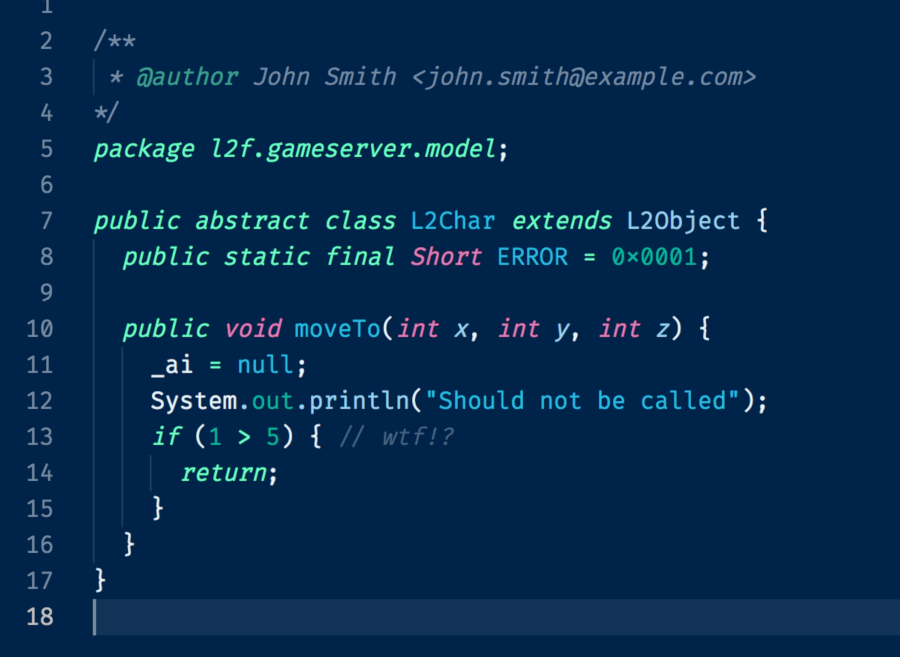
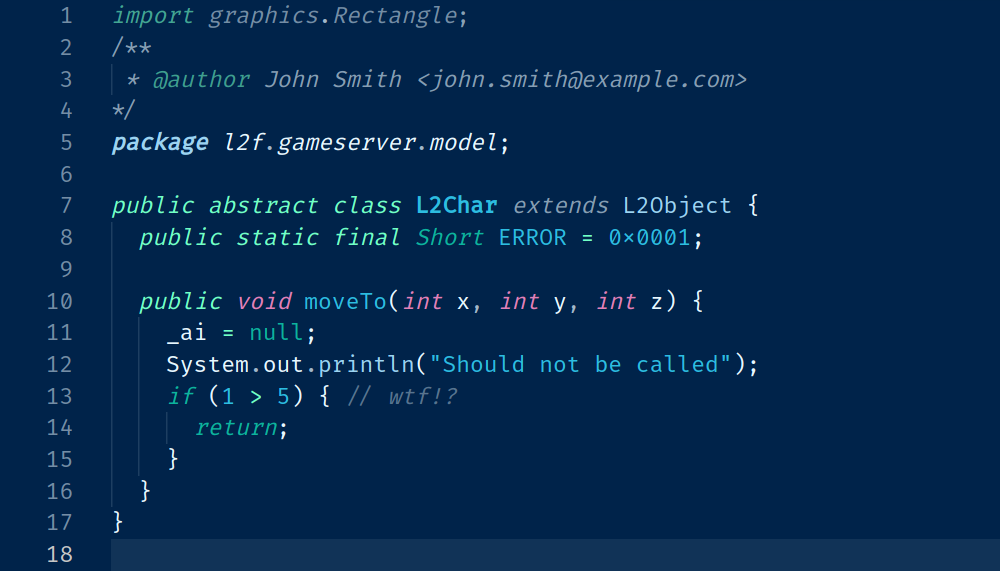
major update with vscolor tool, updated previews, added link to vscolor

diff --git a/README.md b/README.md
@@ -1,5 +1,7 @@
 # Replicant
 
+> This color theme was generated by [VSColor](https://kenzie.ink/vscolor/), a tool made by [Kenzie Bottoms](https://kenzie.ink/).
+
 ![Blade Runner](bladerunner.png)
 
 ### Palette
@@ -15,22 +17,27 @@
 ## Supported Languages
 
 - Explicitly written for
-    - CSS
+    - SCSS
     - Java
     - JavaScript
+    - React
     - Python
-    - Ruby
     - Vue
-- User-approved
+- Spot-checked for
+    - Swift
+    - Ruby
+- User-approved for
     - Go
 
 ## Previews
 
 - [Python](#python)
 - [Javascript](#javascript)
+  - [React](#react)
 - [Ruby](#ruby)
-- [CSS](#css)
+- [SCSS](#scss)
 - [Java](#java)
+- [Swift](#swift)
 
 ### Python
 
@@ -40,18 +47,27 @@
 
 ![Javascript](previews/js.png)
 
+#### React
+
+![React](previews/react.png)
+
 ### Ruby
 
 ![Ruby](previews/ruby.png)
 
-### CSS
+### SCSS
 
-![CSS](previews/css.png)
+![SCSS](previews/scss.png)
 
 
 ### Java
 
 ![Java](previews/java.png)
+
+
+### Swift
+
+![Swift](previews/swift.png)
 
 ---
 
